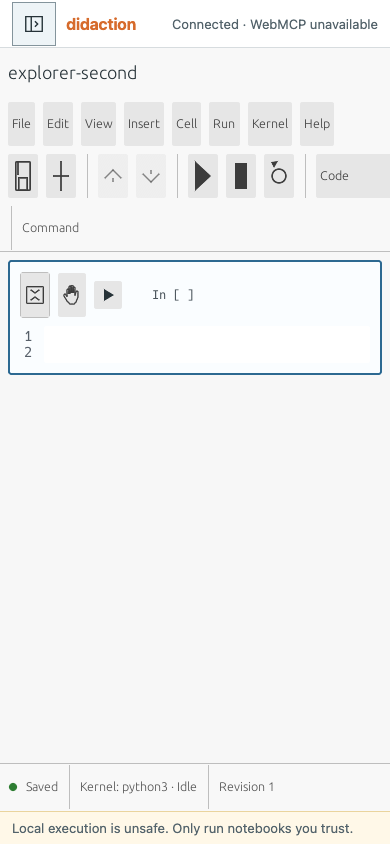
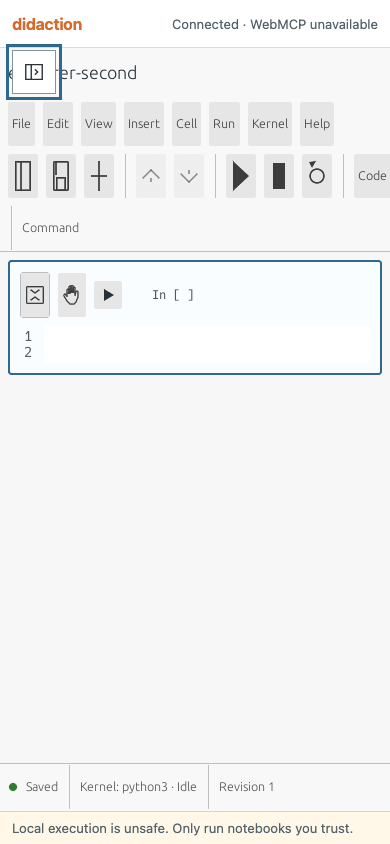
Move workspace toggle into native notebook toolbar before Save

diff --git a/web/src/bootstrap.ts b/web/src/bootstrap.ts
@@ -54,6 +54,11 @@ async function createContext(
     ),
   );
   let mounted: Awaited<ReturnType<typeof mountNotebook>> | undefined;
+  const syncWorkspaceVisibility = () =>
+    mounted?.setWorkspaceVisible(
+      !document.querySelector<HTMLElement>("#file-explorer")!.hidden,
+    );
+  window.addEventListener("workspace-visibility", syncWorkspaceVisibility);
   const externalExecute = async (serialized: string) => {
     try {
       const result = await gateway.execute(serialized, (progress) =>
@@ -204,8 +209,15 @@ async function createContext(
         "notebook-canvas",
         JSON.stringify(JSON.parse(wasm.publicSnapshot()).snapshot),
         dispatchEguiCommand,
+        () => {
+          document
+            .querySelector<HTMLButtonElement>("#explorer-toggle")!
+            .click();
+          return !document.querySelector<HTMLElement>("#file-explorer")!.hidden;
+        },
       );
       const url = new URL(location.href);
+      syncWorkspaceVisibility();
       const activePath = JSON.parse(wasm.publicSnapshot()).snapshot.notebook
         .path as string;
       url.searchParams.set("notebook", activePath);
@@ -220,6 +232,10 @@ async function createContext(
     },
     deactivate,
     dispose: () => {
+      window.removeEventListener(
+        "workspace-visibility",
+        syncWorkspaceVisibility,
+      );
       deactivate();
       wasm.dispose();
       void transport.close();

diff --git a/tests/browser/explorer.spec.ts b/tests/browser/explorer.spec.ts
@@ -63,12 +63,18 @@ test("workspace explorer opens notebooks without redirecting another tab", async
       await page.request.get("/api/v1/notebooks?directory=..%2Foutside")
     ).status(),
   ).toBe(400);
+  // First native egui toolbar slot, before Save (desktop toolbar geometry).
+  await page.locator("#notebook-canvas").click({ position: { x: 24, y: 94 } });
+  await expect(page.locator("#file-explorer")).toBeHidden();
+  await page.locator("#notebook-canvas").click({ position: { x: 24, y: 94 } });
+  await expect(page.locator("#file-explorer")).toBeVisible();
   await page.screenshot({ path: ".impeccable/review/desktop.png" });
   await page.setViewportSize({ width: 390, height: 844 });
   const toggle = page.getByRole("button", {
     name: "Toggle workspace explorer",
   });
-  await toggle.click();
+  await toggle.focus();
+  await page.keyboard.press("Enter");
   await expect(page.locator("#file-explorer")).toBeHidden();
   await expect(toggle).toHaveAttribute("aria-expanded", "false");
   await page.screenshot({ path: ".impeccable/review/mobile.png" });

diff --git a/web/src/styles.css b/web/src/styles.css
@@ -56,6 +56,8 @@ body {
   gap: 10px;
 }
 #explorer-toggle {
+  position: fixed;
+  left: -100px;
   display: inline-flex;
   align-items: center;
   justify-content: center;
@@ -63,6 +65,11 @@ body {
   height: 44px;
   padding: 10px;
   flex-shrink: 0;
+}
+#explorer-toggle:focus-visible {
+  left: 12px;
+  top: 50px;
+  z-index: 10;
 }
 #explorer-toggle svg {
   width: 22px;

diff --git a/web/src/explorer.ts b/web/src/explorer.ts
@@ -19,6 +19,7 @@ export function installExplorer(
       ? "Show workspace explorer"
       : "Hide workspace explorer";
     window.dispatchEvent(new Event("resize"));
+    window.dispatchEvent(new Event("workspace-visibility"));
   };
   async function load(path: string) {
     const request = ++generation;

diff --git a/crates/notebook-egui/src/lib.rs b/crates/notebook-egui/src/lib.rs
@@ -175,6 +175,8 @@ pub struct NotebookEguiApp {
     capture_target: Option<(String, u32)>,
     capture_region: Option<(egui::Rect, f32, bool)>,
     pub captured_cell: Option<String>,
+    pub workspace_visible: bool,
+    pub workspace_toggle_requested: bool,
     output_views: HashMap<String, OutputViewMode>,
     hidden_line_numbers: HashSet<String>,
     find_open: bool,
@@ -231,6 +233,8 @@ impl NotebookEguiApp {
             capture_target: None,
             capture_region: None,
             captured_cell: None,
+            workspace_visible: true,
+            workspace_toggle_requested: false,
             output_views: HashMap::new(),
             hidden_line_numbers: HashSet::new(),
             find_open: false,
@@ -1053,6 +1057,18 @@ impl NotebookEguiApp {
                 });
             });
             ui.horizontal_wrapped(|ui| {
+                if toolbar_icon_button(
+                    ui,
+                    true,
+                    ToolbarIcon::Workspace,
+                    if self.workspace_visible {
+                        "Hide workspace explorer"
+                    } else {
+                        "Show workspace explorer"
+                    },
+                ) {
+                    self.workspace_toggle_requested = true;
+                }
                 if toolbar_icon_button(ui, idle, ToolbarIcon::Save, "Save notebook") {
                     self.save_visible_edits();
                 }
@@ -2375,6 +2391,7 @@ fn notebook_document_width(available_width: f32) -> f32 {
 
 #[derive(Clone, Copy)]
 enum ToolbarIcon {
+    Workspace,
     Save,
     Add,
     Up,
@@ -2400,6 +2417,14 @@ fn toolbar_icon_button(ui: &mut egui::Ui, enabled: bool, icon: ToolbarIcon, tool
     let stroke = Stroke::new(1.6, color);
     let painter = ui.painter();
     match icon {
+        ToolbarIcon::Workspace => {
+            painter.rect_stroke(rect, 0.0, stroke, egui::StrokeKind::Inside);
+            let x = rect.left() + rect.width() * 0.35;
+            painter.line_segment(
+                [egui::pos2(x, rect.top()), egui::pos2(x, rect.bottom())],
+                stroke,
+            );
+        }
         ToolbarIcon::Save => {
             painter.rect_stroke(rect, 1.0, stroke, egui::StrokeKind::Inside);
             painter.line_segment(

diff --git a/crates/notebook-wasm/src/lib.rs b/crates/notebook-wasm/src/lib.rs
@@ -92,16 +92,21 @@ pub fn validate_notebook_command(input: &str) -> Result<String, JsError> {
 struct MountedApp {
     app: Arc<Mutex<NotebookEguiApp>>,
     dispatch: js_sys::Function,
+    toggle_workspace: Option<js_sys::Function>,
 }
 
 #[cfg(target_arch = "wasm32")]
 impl eframe::App for MountedApp {
     fn update(&mut self, ctx: &eframe::egui::Context, frame: &mut eframe::Frame) {
-        let commands = {
+        let (commands, toggle_requested) = {
             let mut app = self.app.lock().expect("notebook app mutex poisoned");
             app.update(ctx, frame);
-            app.drain_commands()
+            let toggle_requested = std::mem::take(&mut app.workspace_toggle_requested);
+            (app.drain_commands(), toggle_requested)
         };
+        if toggle_requested && let Some(callback) = &self.toggle_workspace {
+            let _ = callback.call0(&JsValue::NULL);
+        }
         for command in commands {
             let command_id = command.command_id;
             {
@@ -286,6 +291,7 @@ pub async fn mount_notebook(
     element_id: String,
     snapshot: String,
     dispatch: js_sys::Function,
+    toggle_workspace: Option<js_sys::Function>,
 ) -> Result<MountedNotebook, JsValue> {
     let snapshot: NotebookSnapshot =
         serde_json::from_str(&snapshot).map_err(|error| JsValue::from_str(&error.to_string()))?;
@@ -311,6 +317,7 @@ pub async fn mount_notebook(
                 Ok(Box::new(MountedApp {
                     app: mounted,
                     dispatch,
+                    toggle_workspace,
                 }))
             }),
         )
@@ -349,6 +356,13 @@ impl MountedNotebook {
     #[wasm_bindgen(js_name = takeCellCapture)]
     pub fn take_cell_capture(&self) -> Option<String> {
         self.app.lock().expect("app mutex").captured_cell.take()
+    }
+    #[wasm_bindgen(js_name = setWorkspaceVisible)]
+    pub fn set_workspace_visible(&self, visible: bool) {
+        self.app.lock().expect("app mutex").workspace_visible = visible;
+        if let Some(ctx) = self.repaint.lock().expect("repaint mutex").as_ref() {
+            ctx.request_repaint();
+        }
     }
     #[wasm_bindgen(js_name = setExternalBusy)]
     pub fn set_external_busy(&self, busy: bool) {

diff --git a/DESIGN.md b/DESIGN.md
@@ -211,7 +211,7 @@ The shell and browser-level controls are square. Notebook cells have only a gent
 ### Notebook Explorer
 
 - **Structure:** A flat white sidebar beside the notebook canvas, separated by a hairline divider, with a 12px inset and independent vertical scrolling. Its expanded width is 248px, reducing to 180px at viewport widths of 640px or less; collapsing it returns that space to the document.
-- **Controls:** The header’s 44px outlined sidebar-icon button toggles the workspace, with a directional chevron, action tooltip, accessible name, and expanded state. It remains visible when the sidebar is hidden. The sidebar shows a “Notebooks” heading, a wrapping workspace-relative folder path, and explicit Up and Refresh actions; Up is disabled at the workspace root.
+- **Controls:** An outlined sidebar icon is the first egui toolbar button, immediately before Save, using the same sizing and styling. Its tooltip reflects Show/Hide state. A focus-revealed DOM equivalent retains keyboard and screen-reader access. The sidebar shows a “Notebooks” heading, a wrapping workspace-relative folder path, and explicit Up and Refresh actions; Up is disabled at the workspace root.
 - **Rows:** Full-width, left-aligned buttons pair small outlined SVG folder or notebook icons with wrapping names. The current notebook uses the existing blue selection surface and an accessible current-page marker; icons are decorative, while names and path tooltips identify entries.
 - **Navigation:** Folders open in the sidebar without replacing the notebook. Opening another notebook is guarded: unsaved edits or active execution keep the current document open and show guidance to save and wait before switching.
 - **Feedback:** Quiet status text reports loading, entry counts, empty folders, or actionable recovery through Up or Refresh. Controls retain the existing square form, restrained hover treatment, and visible keyboard focus.
